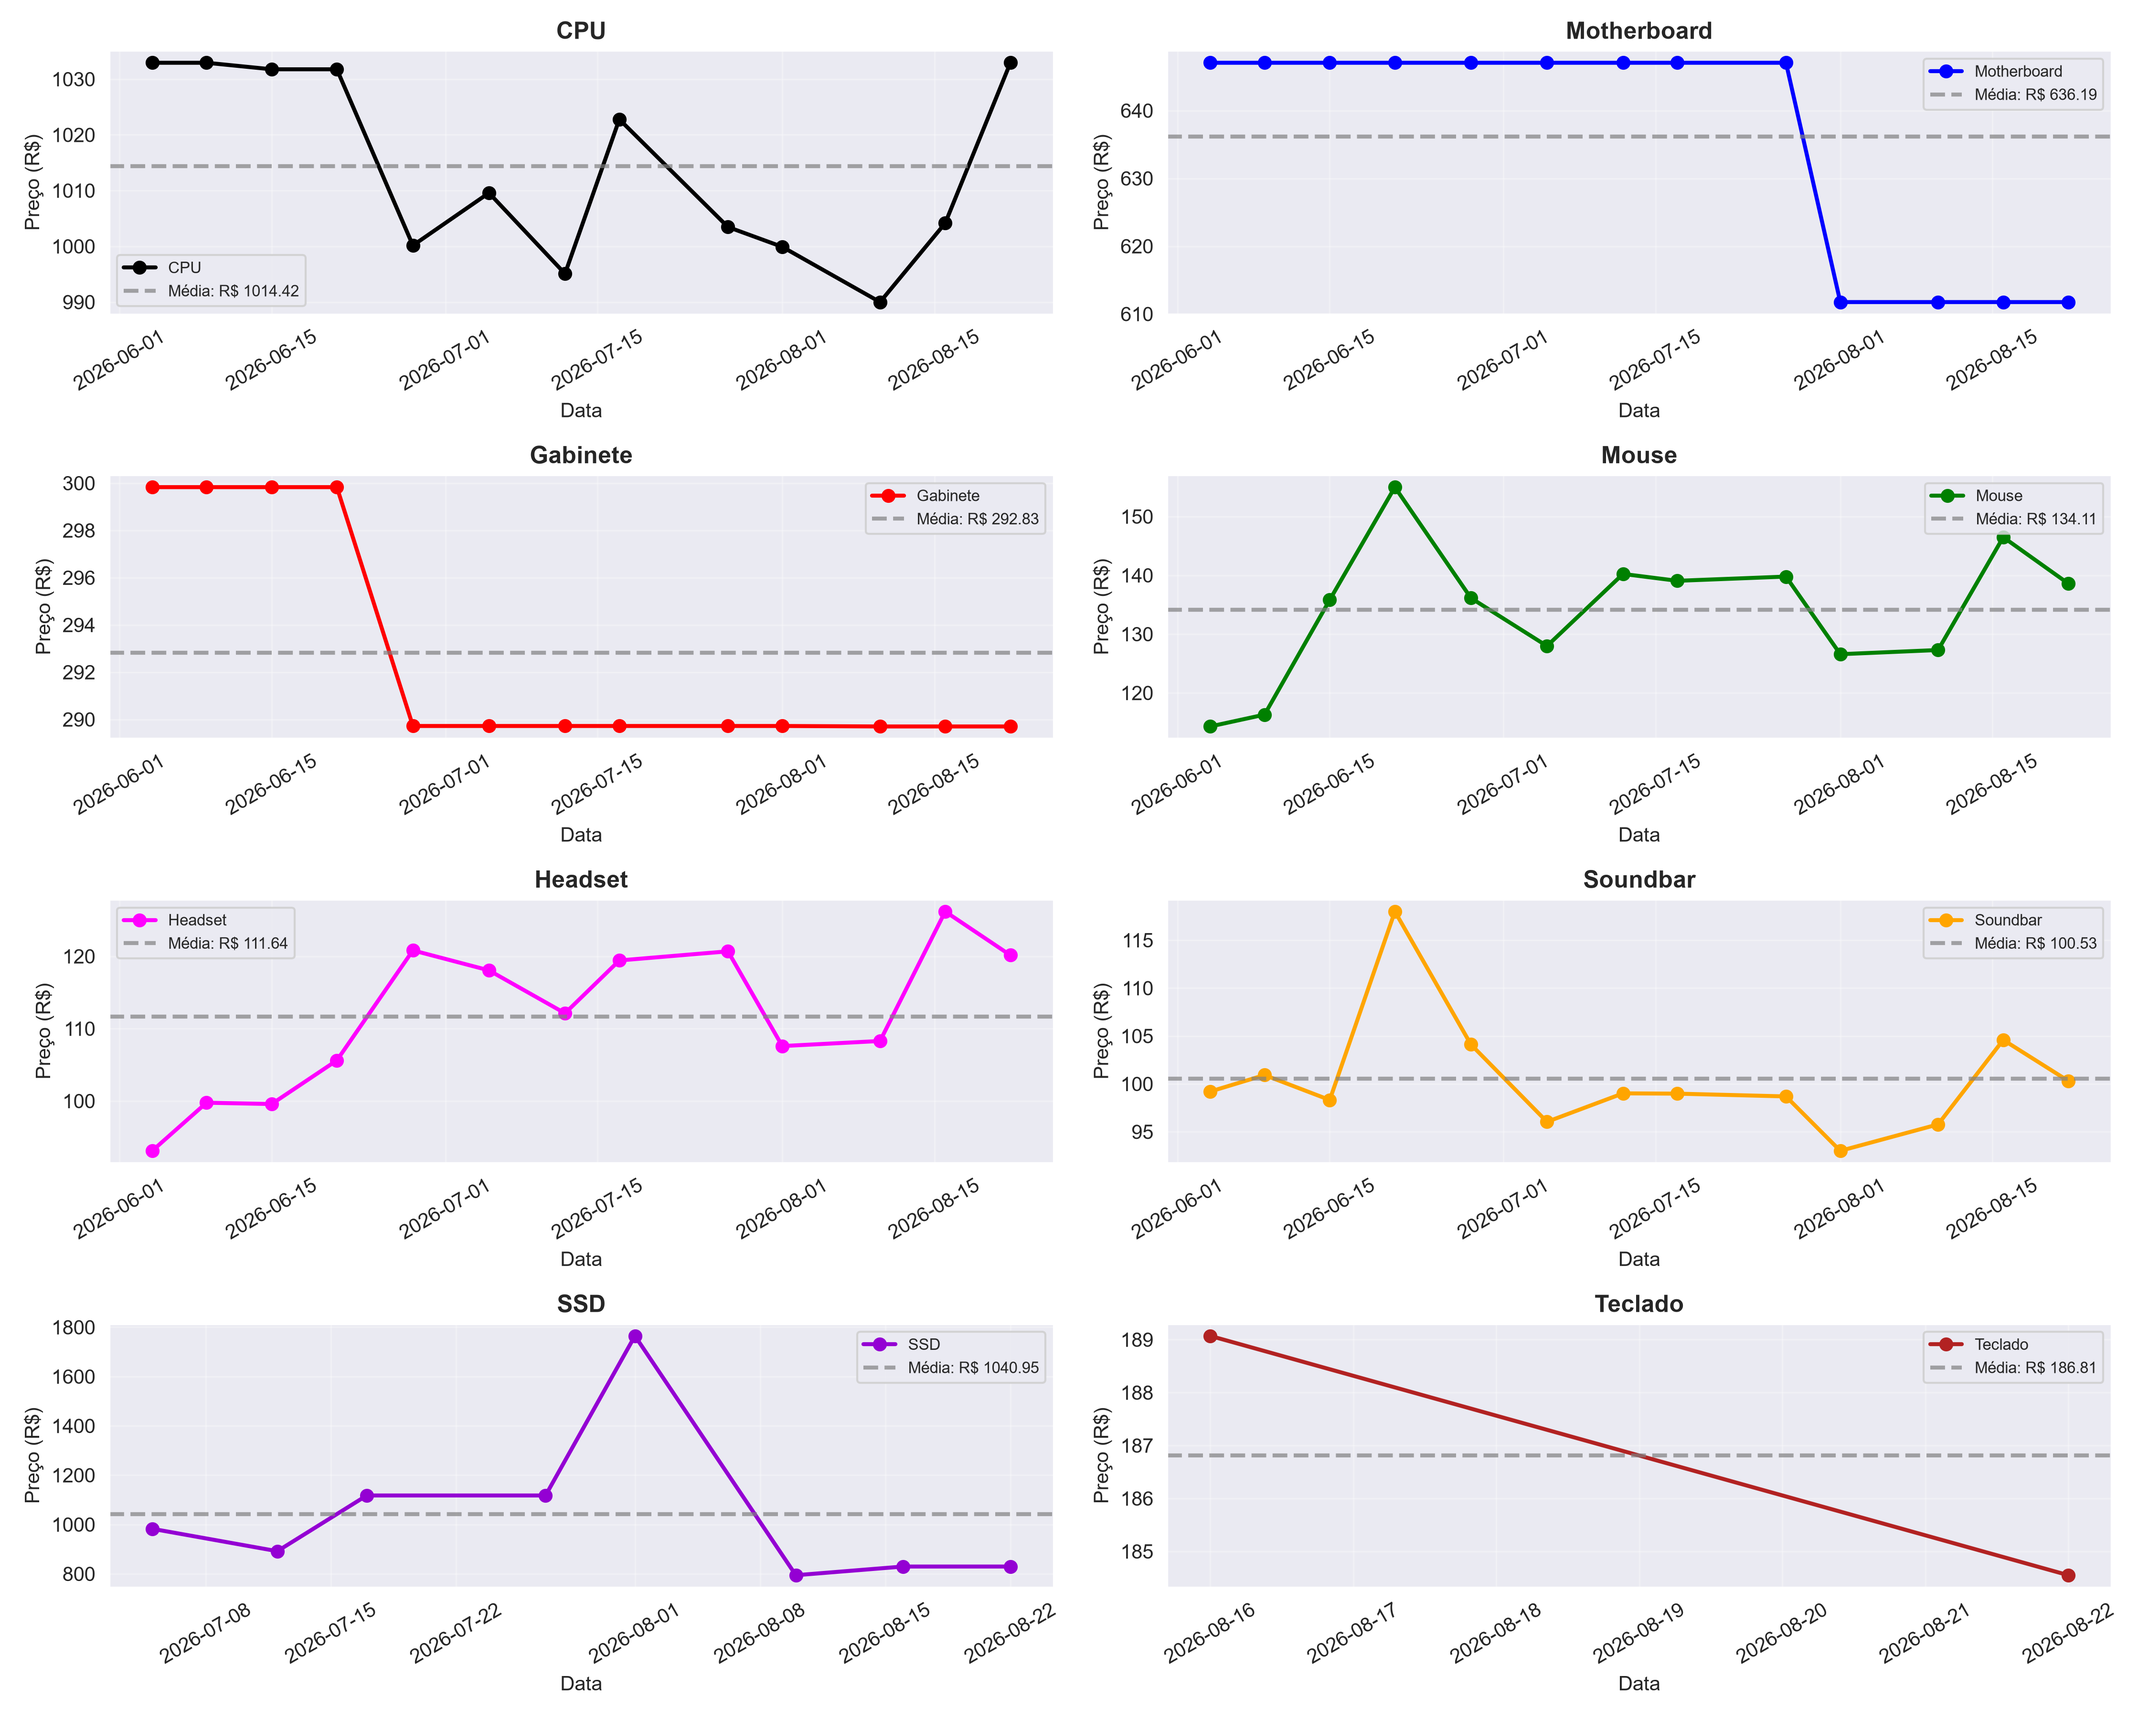
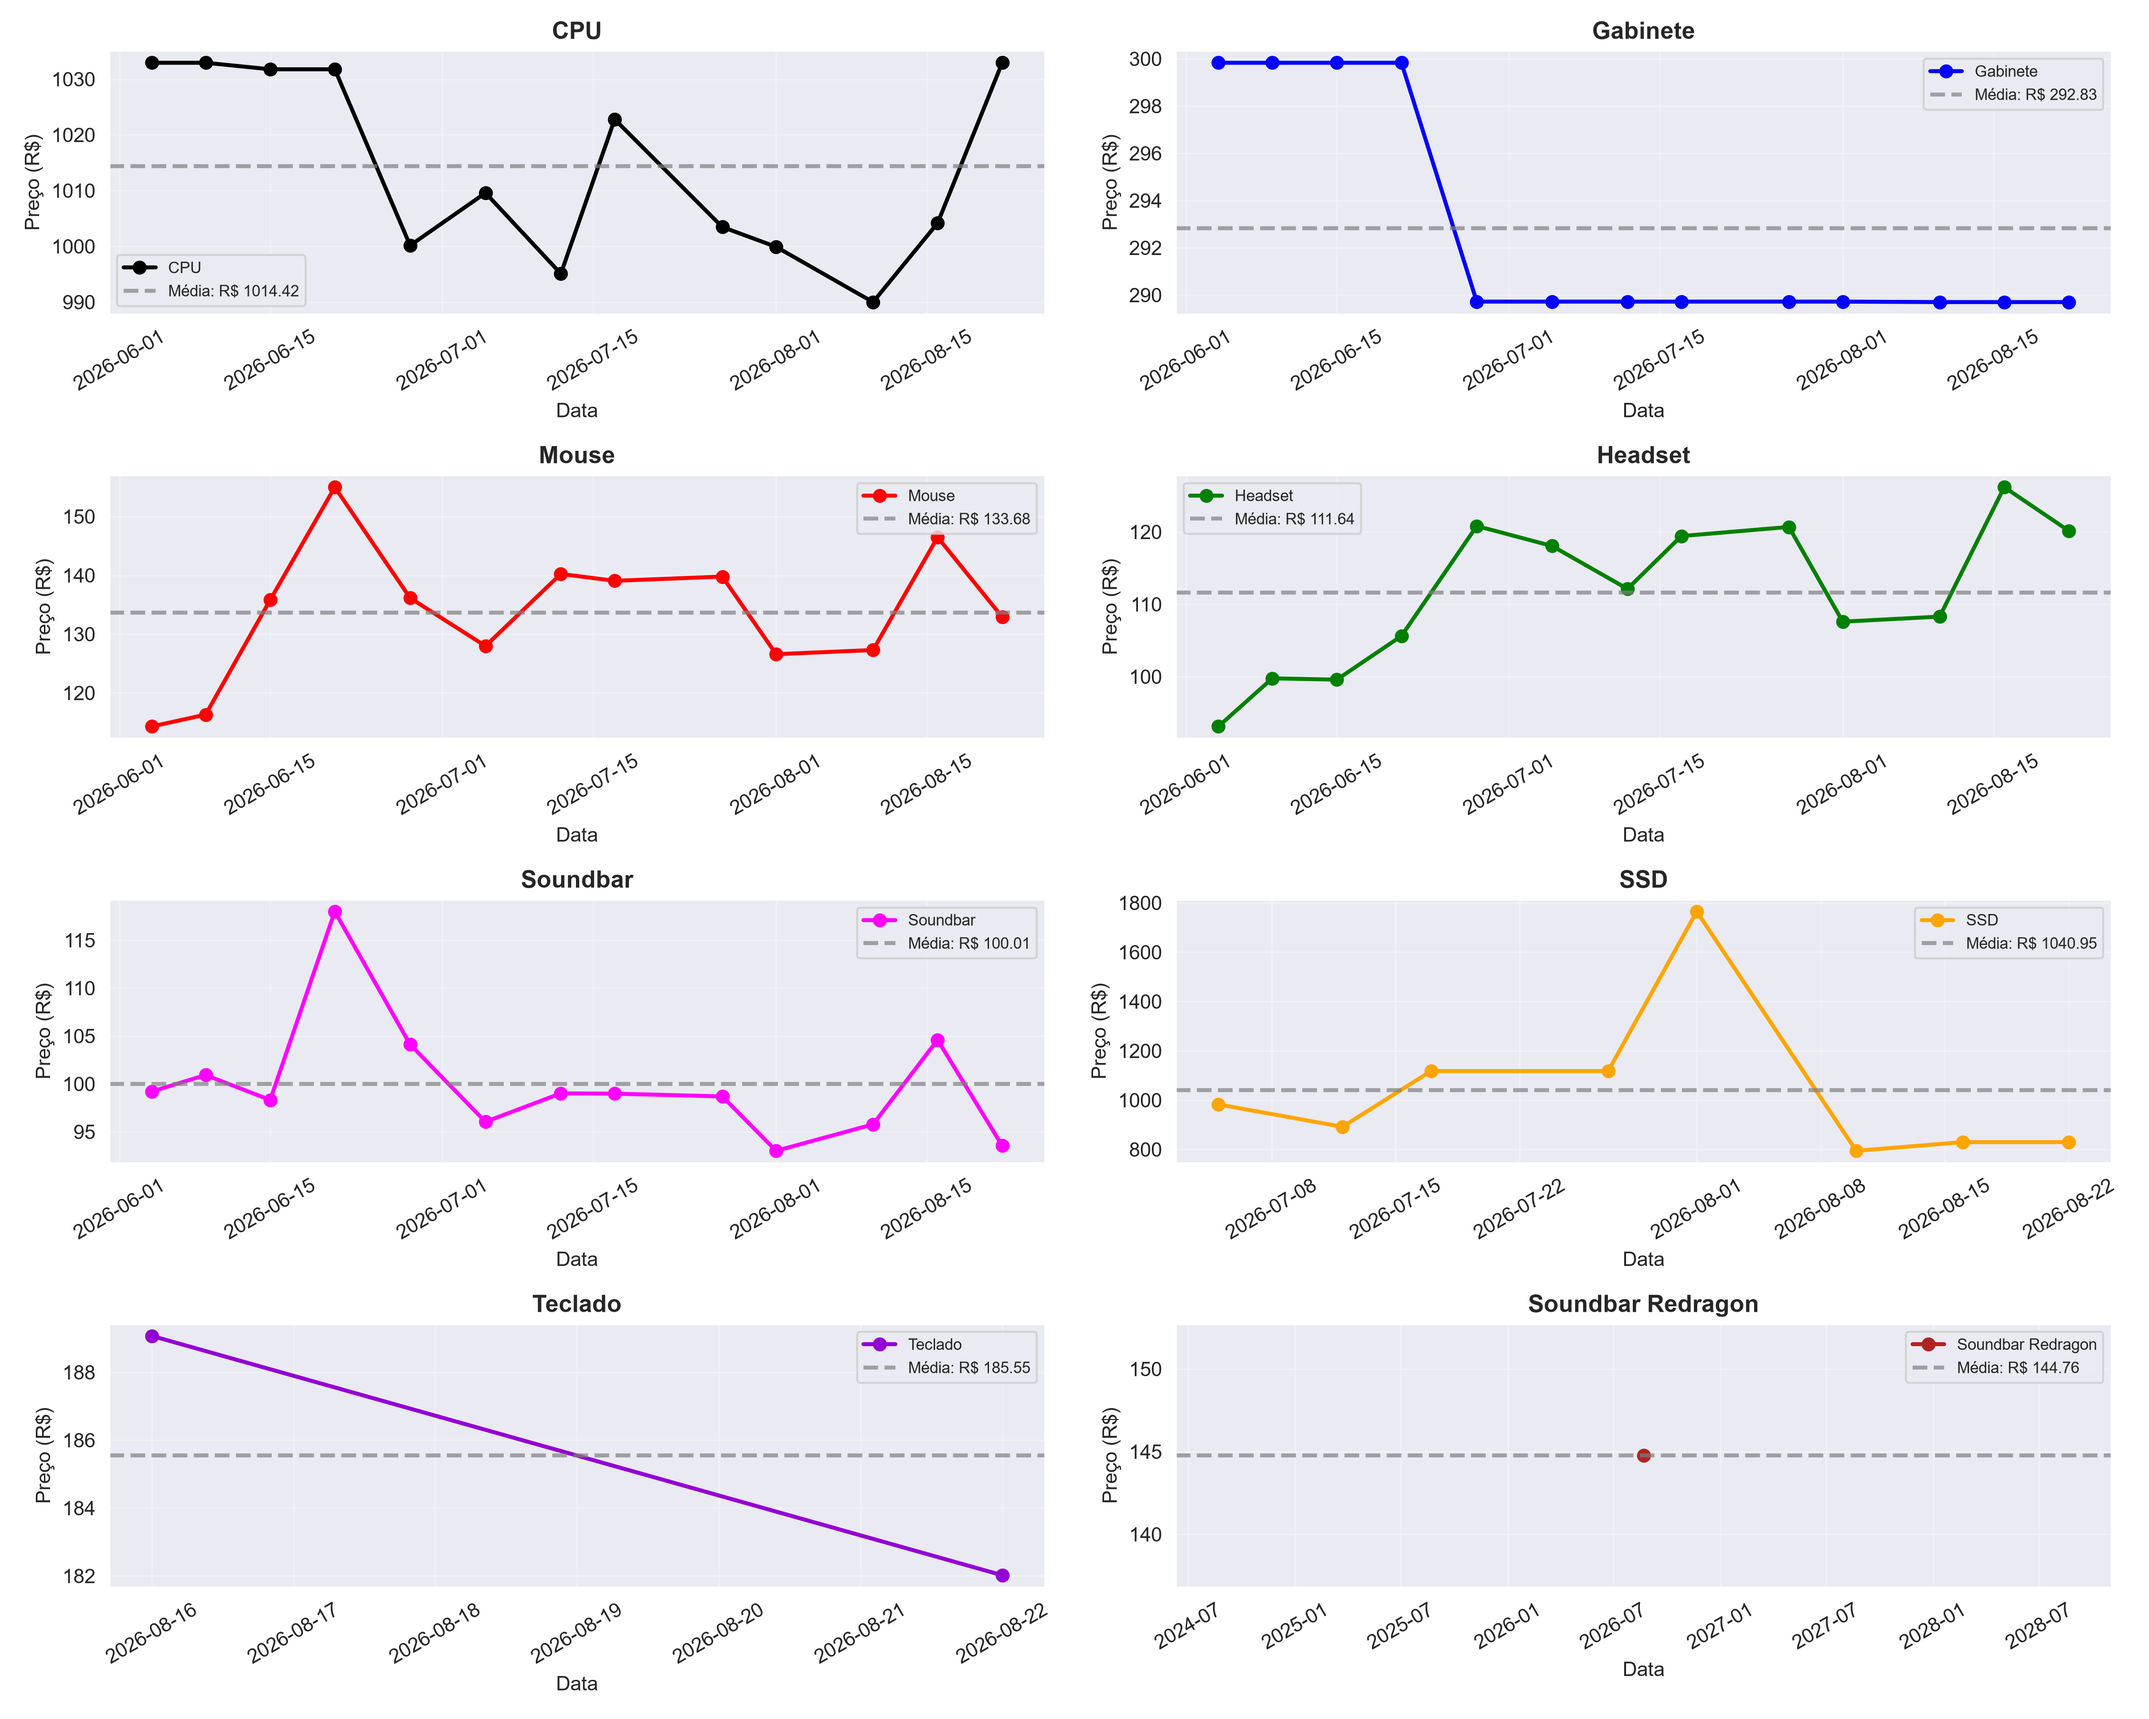
Substituido Motherboard por Soundbar Redragon e atualização de preços.

diff --git a/main_file.py b/main_file.py
@@ -22,6 +22,7 @@ gabinete_link = 'https://www.kabum.com.br/produto/887046/gabinete-gaming-c3tech-
 mouse_link = 'https://pt.aliexpress.com/item/1005012371400759.html?spm=a2g0o.productlist.main.23.459c25f81bcfCL&algo_pvid=fe26c5bb-67a9-42a2-8835-77951b1c0678&algo_exp_id=fe26c5bb-67a9-42a2-8835-77951b1c0678-20&pdp_ext_f=%7B"order"%3A"23"%2C"eval"%3A"1"%2C"fromPage"%3A"search"%7D&pdp_npi=6%40dis%21BRL%21336.34%21147.99%21%21%21407.73%21179.40%21%402101f70717832764055654429e72c1%2112000058191763437%21sea%21BR%217714416806%21X%211%210%21n_tag%3A-29911%3Bd%3A137eff22%3Bm03_new_user%3A-29895&curPageLogUid=Lq0Biyq3hzZX&utparam-url=scene%3Asearch%7Cquery_from%3A%7Cx_object_id%3A1005012371400759%7C_p_origin_prod%3A'
 headset_link = 'https://pt.aliexpress.com/item/1005009495386384.html?aff_fcid=24cb7ac286da4a1dac72bd6b45a01629-1779218687223-01059-_c3gITj9D&tt=CPS_NORMAL&aff_fsk=_c3gITj9D&aff_platform=shareComponent-detail&sk=_c3gITj9D&aff_trace_key=24cb7ac286da4a1dac72bd6b45a01629-1779218687223-01059-_c3gITj9D&terminal_id=d874b61df0ea490bb40119dc36685fe8&afSmartRedirect=y'
 soundbar_link = 'https://pt.aliexpress.com/item/1005006436035998.html?spm=a2g0o.productlist.main.2.26c7y0DSy0DSur&algo_pvid=a6a82e3c-ebe8-41ee-9da0-1fe9c6c92b4a&algo_exp_id=a6a82e3c-ebe8-41ee-9da0-1fe9c6c92b4a-1&pdp_ext_f=%7B"order"%3A"4969"%2C"spu_best_type"%3A"price"%2C"eval"%3A"1"%2C"fromPage"%3A"search"%7D&pdp_npi=6%40dis%21BRL%21229.12%21100.55%21%21%21287.08%21125.98%21%402103212b17798072772552193e62f7%2112000037173402947%21sea%21BR%210%21ABX%211%210%21n_tag%3A-29910%3Bd%3Aeaf596e%3Bm03_new_user%3A-29895%3BpisId%3A5000000207258923&curPageLogUid=jr5V9vRJV1Bl&utparam-url=scene%3Asearch%7Cquery_from%3A%7Cx_object_id%3A1005006436035998%7C_p_origin_prod%3A'
+soundbar_red_link = 'https://pt.aliexpress.com/item/1005004684998034.html?spm=a2g0o.productlist.main.1.2c861240DubsIa&algo_pvid=f81d2e67-40df-4e0d-9058-324f7c10291f&algo_exp_id=f81d2e67-40df-4e0d-9058-324f7c10291f-0&pdp_ext_f=%7B"order"%3A"58"%2C"eval"%3A"1"%2C"fromPage"%3A"search"%7D&pdp_npi=6%40dis%21BRL%21380.93%21159.99%21%21%2168.05%2128.58%21%402101e7a317874373845623899e0f2e%2112000030094931478%21sea%21BR%217714416806%21X%211%210%21n_tag%3A-29911%3Bd%3A137eff22%3Bm03_new_user%3A-29895&curPageLogUid=08KMvNGPMgAU&utparam-url=scene%3Asearch%7Cquery_from%3A%7Cx_object_id%3A1005004684998034%7C_p_origin_prod%3A'
 keyboard_link = 'https://pt.aliexpress.com/item/1005006982966199.html?spm=a2g0o.productlist.main.5.4fd0cWjAcWjAVG&algo_pvid=dd974723-a0f0-40aa-bca7-09a727a07434&algo_exp_id=dd974723-a0f0-40aa-bca7-09a727a07434-4&pdp_ext_f=%7B"order"%3A"1436"%2C"spu_best_type"%3A"price"%2C"eval"%3A"1"%2C"fromPage"%3A"search"%7D&pdp_npi=6%40dis%21BRL%21369.65%21174.62%21%21%21443.60%21209.56%21%402101e5ab17868916822482882e0eee%2112000038938334333%21sea%21BR%217714416806%21X%211%210%21n_tag%3A-29911%3Bd%3A137eff22%3Bm03_new_user%3A-29895%3BpisId%3A5000000214354137&curPageLogUid=9VrS02B33GmJ&utparam-url=scene%3Asearch%7Cquery_from%3A%7Cx_object_id%3A1005006982966199%7C_p_origin_prod%3A'
 
 
@@ -77,58 +78,27 @@ print("Preço CPU adicionado!")
 #### MOTHERBOARD ####
 #####################
 
-driver.get(motherboard_link)
-driver.implicitly_wait(10)
+#driver.get(motherboard_link)
+#driver.implicitly_wait(10)
 
-mboard_ptbr = driver.find_element(By.ID, 'valParc').get_property('innerText')
-mboard_price = mboard_ptbr.split(' ')[1].replace(',', '.')
-mboard_price = float(mboard_price)
-print(f"Preço Placa-mãe: {mboard_price}")
+#mboard_ptbr = driver.find_element(By.ID, 'valParc').get_property('innerText')
+#mboard_price = mboard_ptbr.split(' ')[1].replace(',', '.')
+#mboard_price = float(mboard_price)
+#print(f"Preço Placa-mãe: {mboard_price}")
 
-item = 'Motherboard'
-descricao = 'Chronos B550M-CR'
-data = date.today()
+#item = 'Motherboard'
+#descricao = 'Chronos B550M-CR'
+#data = date.today()
 
-new_data = pd.DataFrame([{
-    'Item': item,
-    'Descricao': descricao,
-    'Preco': mboard_price,
-    'Data': data
-}])
+#new_data = pd.DataFrame([{
+#    'Item': item,
+#    'Descricao': descricao,
+#    'Preco': mboard_price,
+#    'Data': data
+#}])
 
-df = pd.concat([df, new_data], ignore_index=True)
-print("Preço Placa-mãe adicionado!")
-
-
-
-#############
-#### SSD ####
-#############
-
-driver.get(ssd_link)
-driver.implicitly_wait(10)
-
-button = driver.find_element(By.ID, "adopt-accept-all-button")
-button.click()
-
-ssd_price_ptbr = driver.find_element(By.XPATH, "(//div[@class='w-full']/span/b)").get_property('innerText')
-ssd_price = ssd_price_ptbr.split('\xa0')[1].replace('.', '').replace(',', '.')
-ssd_price = round(float(ssd_price)*10, 2)
-print(f"Preço SSD: {ssd_price}")
-
-item = 'SSD'
-descricao = 'Husky ssd nvme 512GB'
-data = date.today()
-
-new_data = pd.DataFrame([{
-    'Item': item,
-    'Descricao': descricao,
-    'Preco': ssd_price,
-    'Data': data
-}])
-
-df = pd.concat([df, new_data], ignore_index=True)
-print("Preço SSD adicionado!")
+#df = pd.concat([df, new_data], ignore_index=True)
+#print("Preço Placa-mãe adicionado!")
 
 
 
@@ -160,6 +130,50 @@ new_data = pd.DataFrame([{
 
 df = pd.concat([df, new_data], ignore_index=True)
 print("Preço Gabinete adicionado!")
+
+
+
+#################
+#### TECLADO ####
+#################
+
+driver.get(keyboard_link)
+driver.implicitly_wait(10)
+
+try:
+    # Tenta encontrar o elemento com o XPath específico
+    button_close = driver.find_element(By.XPATH, "//div[@class='baxia-dialog-close']")
+    
+    # Se encontrou, clica
+    button_close.click()
+    print("Botão encontrado e clicado com sucesso!")
+    
+except NoSuchElementException:
+    # Se não encontrou, apenas continua
+    print("Botão NÃO encontrado. Continuando execução...")
+
+
+button_option = driver.find_element(By.XPATH, "//div[@class='sku-item--showHot--hRxq3Vm sku-item--image--jMUnnGA']")
+button_option.click()
+
+keyboard_ptbr = driver.find_element(By.XPATH, "//div[@class='price-default--currentWrap--A_MNgCG']").get_property('innerText')
+keyboard_price = keyboard_ptbr.split('$')[1].replace(',', '.')
+keyboard_price = float(keyboard_price)
+print(f"Preço Teclado: {keyboard_price}")
+
+item = 'Teclado'
+descricao = 'M96 teclado bluetooth'
+data = date.today()
+
+new_data = pd.DataFrame([{
+    'Item': item,
+    'Descricao': descricao,
+    'Preco': keyboard_price,
+    'Data': data
+}])
+
+df = pd.concat([df, new_data], ignore_index=True)
+print("Preço Teclado adicionado!")
 
 
 
@@ -223,10 +237,40 @@ df = pd.concat([df, new_data], ignore_index=True)
 print("Preço Headset adicionado!")
 
 
+#############
+#### SSD ####
+#############
 
-##################
-#### SOUNDBAR ####
-##################
+driver.get(ssd_link)
+driver.implicitly_wait(10)
+
+button = driver.find_element(By.ID, "adopt-accept-all-button")
+button.click()
+
+ssd_price_ptbr = driver.find_element(By.XPATH, "(//div[@class='w-full']/span/b)").get_property('innerText')
+ssd_price = ssd_price_ptbr.split('\xa0')[1].replace('.', '').replace(',', '.')
+ssd_price = round(float(ssd_price)*10, 2)
+print(f"Preço SSD: {ssd_price}")
+
+item = 'SSD'
+descricao = 'Husky ssd nvme 512GB'
+data = date.today()
+
+new_data = pd.DataFrame([{
+    'Item': item,
+    'Descricao': descricao,
+    'Preco': ssd_price,
+    'Data': data
+}])
+
+df = pd.concat([df, new_data], ignore_index=True)
+print("Preço SSD adicionado!")
+
+
+
+##########################
+#### SOUNDBAR CHINESA ####
+##########################
 
 driver.get(soundbar_link)
 driver.implicitly_wait(10)
@@ -251,36 +295,44 @@ df = pd.concat([df, new_data], ignore_index=True)
 print("Preço Soundbar adicionado!")
 
 
-#################
-#### TECLADO ####
-#################
 
-driver.get(keyboard_link)
-driver.implicitly_wait(10)
+###########################
+#### SOUNDBAR REDRAGON ####
+###########################
 
-#button_close = driver.find_element(By.XPATH, "//div[@class='baxia-dialog-close']")
-#button_close.click()
-button_option = driver.find_element(By.XPATH, "//div[@class='sku-item--showHot--hRxq3Vm sku-item--image--jMUnnGA']")
-button_option.click()
+driver.get(soundbar_red_link)
 
-keyboard_ptbr = driver.find_element(By.XPATH, "//div[@class='price-default--currentWrap--A_MNgCG']").get_property('innerText')
-keyboard_price = keyboard_ptbr.split('$')[1].replace(',', '.')
-keyboard_price = float(keyboard_price)
-print(f"Preço Teclado: {keyboard_price}")
+driver.implicitly_wait(5)
 
-item = 'Teclado'
-descricao = 'M96 teclado bluetooth'
+try:
+    # Tenta encontrar o elemento com o XPath específico
+    button_close = driver.find_element(By.XPATH, "//div[@class='baxia-dialog-close']")
+    
+    # Se encontrou, clica
+    button_close.click()
+    print("Botão encontrado e clicado com sucesso!")
+    
+except NoSuchElementException:
+    # Se não encontrou, apenas continua
+    print("Botão NÃO encontrado. Continuando execução...")
+
+soundbar_red_ptbr = driver.find_element(By.XPATH, "(//div[@class='price-default--currentWrap--A_MNgCG'])").get_property('innerText')
+soundbar_red_price = soundbar_red_ptbr.split('$')[1].replace(',', '.')
+soundbar_red_price = float(soundbar_red_price)
+
+item = 'Soundbar Redragon'
+descricao = 'Redragon Adiemus'
 data = date.today()
 
 new_data = pd.DataFrame([{
     'Item': item,
     'Descricao': descricao,
-    'Preco': keyboard_price,
+    'Preco': soundbar_red_price,
     'Data': data
 }])
 
 df = pd.concat([df, new_data], ignore_index=True)
-print("Preço Teclado adicionado!")
+print("Preço Soundbar Redragon adicionado!")
 
 
 
